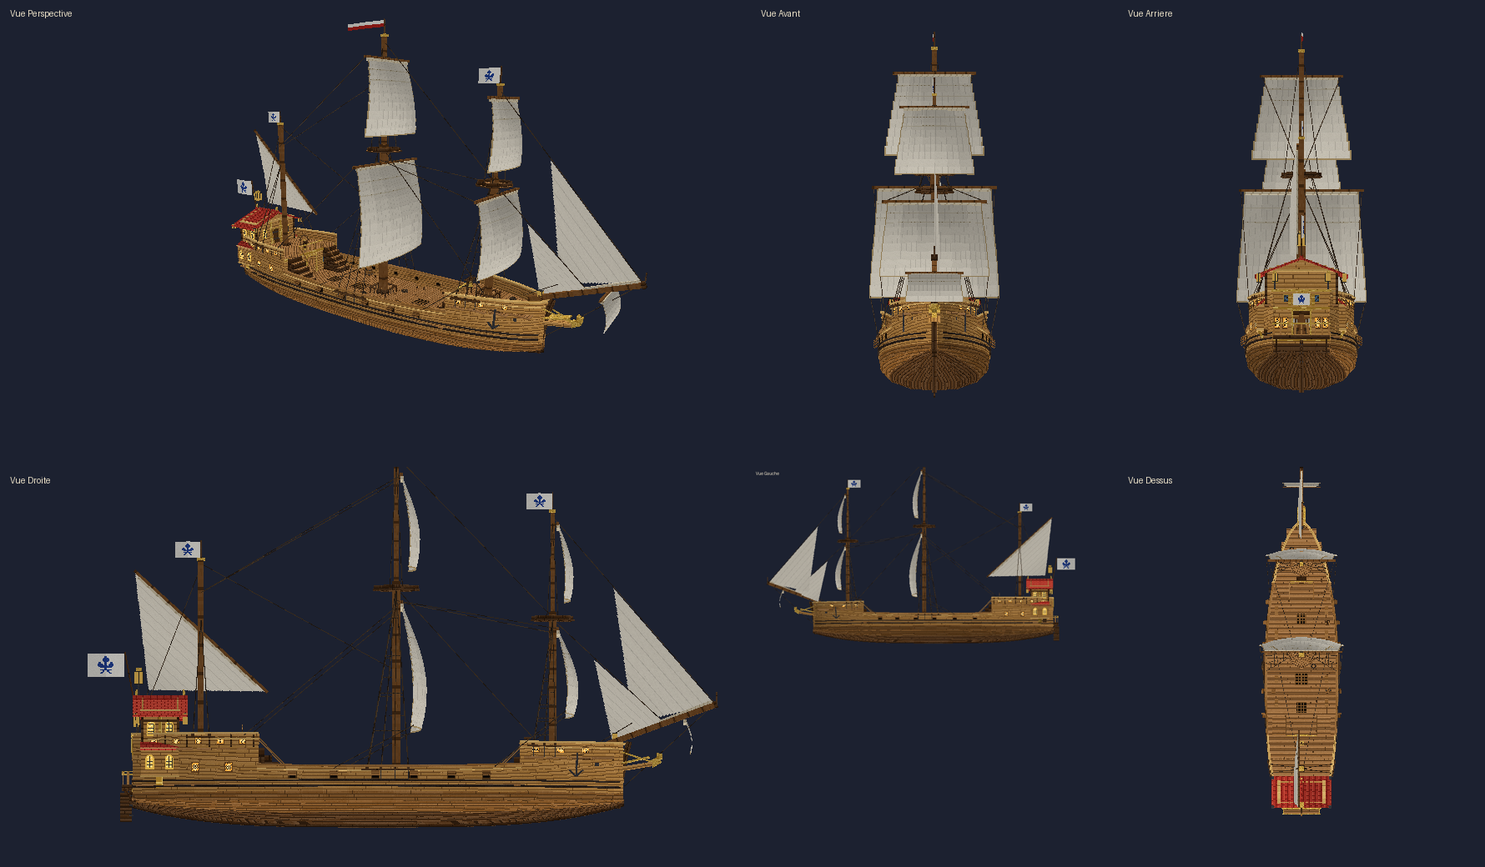
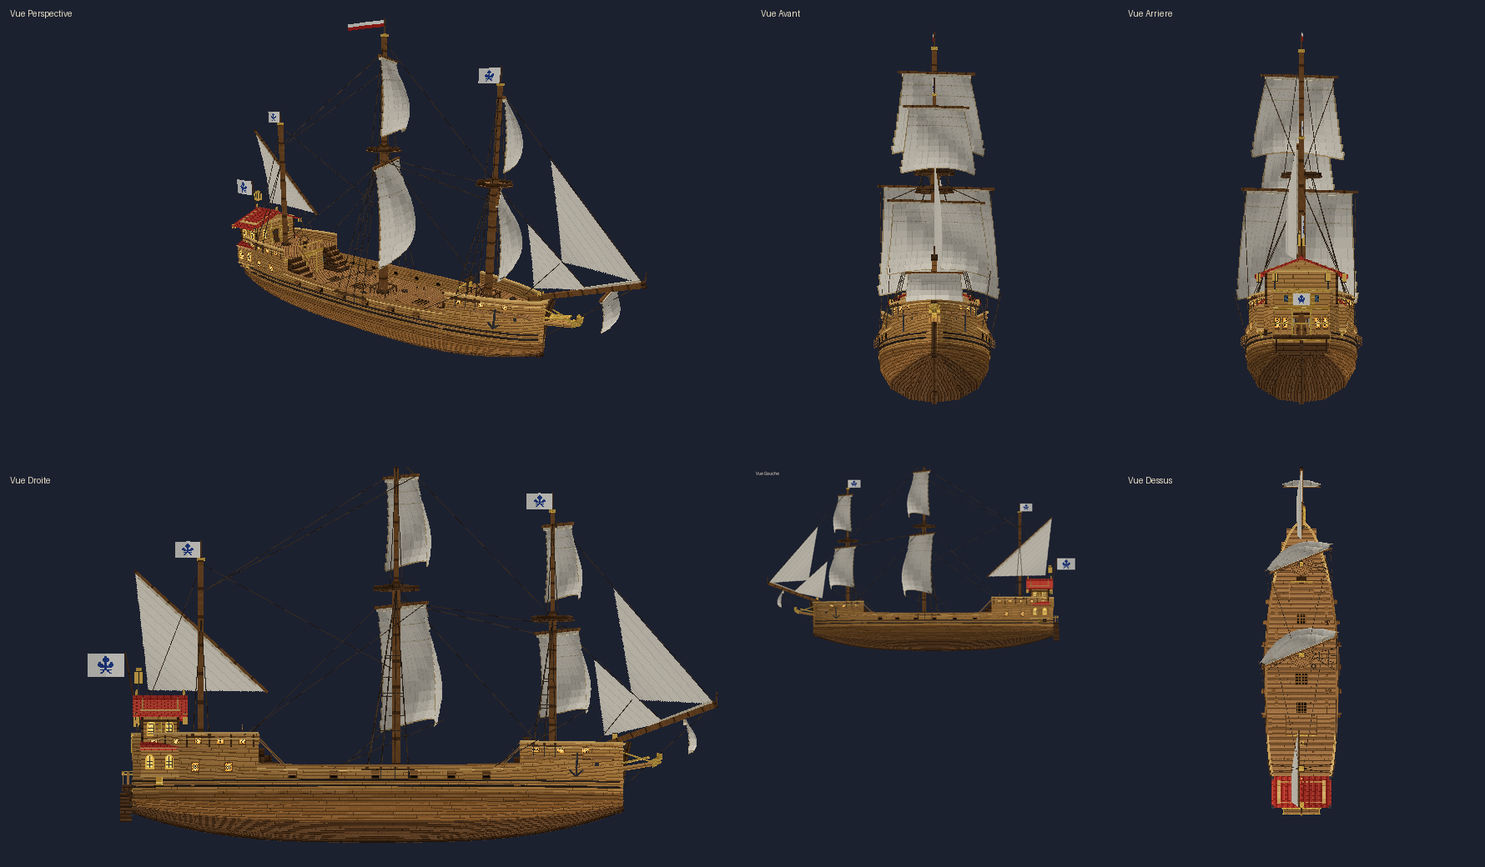
1.5.0: documentation, sample configuration and previews for the new ships
README (six ships, configuration of the new ones), commands (new ids and
the grand_warship alias), model guide for the three new ships and the sail
crossing check, architecture (waterline, parts outside the hull, steam
engine effects), test report (154 in-game checks, 73 unit tests).

Claude-Session: https://claude.ai/code/session_011hUzJAdSyRQ1iYUE1FjecD

diff --git a/README.md b/README.md
@@ -3,8 +3,9 @@
 ![Galère](docs/preview.png)
 ![Grand galion](docs/preview_galleon.png)
 ![Grand vaisseau de guerre](docs/preview_warship.png)
+![Galère rouge, bateau à roue à vapeur, voilier elfique](docs/comparaison_nouveaux_navires.png)
 
-Trois navires qui sont de **véritables entités navigables**, pas des constructions en blocs :
+Six navires qui sont de **véritables entités navigables**, pas des constructions en blocs :
 
 | | Galère médiévale | Grand galion | Grand vaisseau de guerre |
 |---|---|---|---|
@@ -15,7 +16,19 @@ Trois navires qui sont de **véritables entités navigables**, pas des construct
 | Maniement | vif : accélère vite, pivote presque sur place | lourd : lente accélération, forte inertie, larges virages | très lourd : ≈ 17 s pour prendre son allure, > 40 blocs d'erre, très larges virages |
 | Particularités | rames animées, tente de poupe | grande cabine et balcon accessibles, escaliers, dunette au toit rouge, sabords décoratifs, drapeaux à emblème | 3 ponts (pont principal, gaillard d'arrière, dunette) + gaillard d'avant, grande cabine accessible, 58 canons décoratifs (prêts pour le combat), haute poupe à trois étages de fenêtres et galeries, écume à la proue |
 
-Pour les trois :
+| | Galère médiévale rouge | Bateau à roue à vapeur | Voilier elfique |
+|---|---|---|---|
+| Objet / commande | *Galère médiévale rouge*, `medieval_galley` | *Bateau à roue à vapeur*, `steam_paddleboat` | *Voilier elfique*, `elven_sailboat` |
+| Taille | 28 blocs hors tout (coque de 26), 5 de large, coque de 3 blocs, 15 de haut | 22 blocs, 8 de large (10 avec la roue), coque de 5 blocs, 12 de haut | 30 blocs hors tout (coque de 24), 6 de large, coque de 4 blocs, 21 de haut |
+| Propulsion | 24 rames + grande voile carrée rayée rouge et blanc | machine à vapeur : une roue à aubes à tribord, deux cheminées | un grand mât, trois voiles triangulaires |
+| Places assises | 10 (barreur + 8 bancs de nage + proue) | 8 (barre, bancs le long du rouf, 2 servants de canon, poupe) | 8 (barre, 6 bancs à coussins, proue) |
+| Maniement | vive et maniable : accélère vite, vire court, les rames la font pivoter à l'arrêt | accélération progressive, très maniable à basse vitesse, bonne marche arrière, pas de voile à carguer | rapide et fluide : grande vitesse, longue erre, virages doux |
+| Particularités | coque en croissant, deux têtes de dragon sculptées, 28 boucliers ronds à croix blanche, drapeau rouge à croix blanche | coque blindée rivetée, proue renforcée à éperon, rouf aux fenêtres éclairées, roue qui tourne avec la vitesse (en arrière en marche arrière), fumée des cheminées, écume et gerbes à la roue, battement de la machine, 2 canons en laiton, rambarde à lanternes | coque turquoise et or, gemmes lumineuses, longue proue sculptée en volute avec sa lanterne, poupe recourbée, étoile à huit branches et croissant de lune brodés sur les voiles, lanternes qui se balancent |
+
+Le grand vaisseau de guerre s'appelle aussi `grand_warship` dans les commandes ; son
+identifiant interne reste `warship` (navires déjà posés, sauvegardes et configuration intacts).
+
+Pour tous :
 
 * objet dans l'inventaire créatif (onglet *Navires médiévaux* et *Outils*), clic droit sur
   l'eau pour le mettre à l'eau (vérification de la place disponible) ;
@@ -33,6 +46,10 @@ Pour les trois :
 * aucune dépendance autre que Fabric API (ni GeckoLib, ni Valkyrien Skies, ni Eureka),
   aucune apparition naturelle.
 
+La version 1.5.0 ajoute la galère rouge, le bateau à roue à vapeur et le voilier elfique, d'après
+l'image de référence ; le galion et le vaisseau de guerre flottent plus haut sur une coque plus
+profonde et plus arrondie, et leurs voiles sont orientées et plus gonflées. La galère d'origine
+n'a pas changé (géométrie vérifiée au millième de bloc).
 La version 1.3.0 ajoute le grand vaisseau de guerre sans rien changer aux deux premiers navires.
 La version 1.2.0 avait ajouté le grand galion **sans rien changer à la galère** : même modèle, mêmes
 textures, mêmes animations, mêmes réglages, mêmes commandes ; les galères déjà posées dans le
@@ -41,7 +58,7 @@ la galère est identique, au millième de bloc, à celle de la version 1.1.1).
 
 ## Installation
 
-Serveur **et** clients : `medieval-ships-1.4.2.jar` + [Fabric API](https://modrinth.com/mod/fabric-api)
+Serveur **et** clients : `medieval-ships-1.5.0.jar` + [Fabric API](https://modrinth.com/mod/fabric-api)
 0.141.6+1.21.11 (ou plus récent pour 1.21.11), Fabric Loader ≥ 0.18, Java 21.
 
 ## Compilation
@@ -70,7 +87,8 @@ pour 1.21.11 sur <https://fabricmc.net/develop>.
 `config/medievalships.json` (créé au premier lancement, rechargeable avec `/ship reload`) —
 la configuration par défaut se trouve dans [`config/medievalships.json`](config/medievalships.json).
 Elle a deux parties : `server` (réglages communs) et `ships` (un bloc par navire, `galley`,
-`galleon` et `warship`). Un ancien fichier (version 1.0/1.1, réglages « à plat ») est converti
+`galleon`, `warship`, `medieval_galley`, `steam_paddleboat` et `elven_sailboat` ; les blocs des
+nouveaux navires sont ajoutés automatiquement à un fichier existant). Un ancien fichier (version 1.0/1.1, réglages « à plat ») est converti
 automatiquement : ses valeurs deviennent celles de la galère.
 
 **`server`**
@@ -97,12 +115,30 @@ automatiquement : ses valeurs deviennent celles de la galère.
 | `aiDefaultWaitSeconds`, `aiStuckSeconds`, `aiTurnAroundSpeed` | 300, 6, 0.4 | 300, 10, 2 | 300, 15, 2.4 | attente par défaut, détection de blocage, vitesse en demi-tour |
 | `furlSailWhenStopped` | true | true | true | carguer les voiles à l'arrêt |
 
+**`ships.medieval_galley` / `ships.steam_paddleboat` / `ships.elven_sailboat`** (mêmes clés)
+
+| Clé | Galère rouge | Bateau à vapeur | Voilier elfique |
+|---|---|---|---|
+| `slowSpeed` / `normalSpeed` / `fastSpeed` | 2.8 / 6 / 9.5 | 2.2 / 5 / 7.5 | 3 / 6.8 / 10.5 |
+| `reverseSpeed` | 2.0 | 2.5 | 1.5 |
+| `acceleration`, `braking` | 1.1, 2.0 | 0.5, 1.4 | 0.8, 1.2 |
+| `waterDrag` | 0.2 | 0.12 | 0.1 |
+| `maxTurnRate`, `minTurnFactor` | 18, 0.35 | 13, 0.5 | 13, 0.15 |
+| `helmRate`, `helmReturnRate`, `turnResponse`, `turnSpeedLoss` | 1.8, 1, 1.8, 0.22 | 1.4, 1, 1.3, 0.15 | 1.2, 0.8, 1.1, 0.1 |
+| `waveRocking` | 1.0 | 0.8 | 0.9 |
+| `aiWaypointRadius`, `aiStopRadius`, `aiLookahead`, `aiProbeDistance` | 8, 2, 14, 40 | 9, 2, 16, 48 | 9, 2, 16, 48 |
+| `aiDefaultWaitSeconds`, `aiStuckSeconds`, `aiTurnAroundSpeed` | 300, 6, 0.4 | 300, 8, 1 | 300, 6, 1.2 |
+| `furlSailWhenStopped` | true | false (pas de voile) | true |
+
 ## Structure du projet
 
 ```
 blockbench/galley.bbmodel        galère éditable (texture intégrée, 6 animations)
 blockbench/galleon.bbmodel       grand galion éditable (2 textures intégrées, 4 animations)
 blockbench/warship.bbmodel       grand vaisseau de guerre éditable (2 textures intégrées, 4 animations)
+blockbench/medieval_galley.bbmodel   galère rouge éditable (texture intégrée, 5 animations)
+blockbench/steam_paddleboat.bbmodel  bateau à roue à vapeur éditable (texture intégrée, 3 animations)
+blockbench/elven_sailboat.bbmodel    voilier elfique éditable (texture intégrée, 5 animations)
 config/medievalships.json        configuration par défaut
 docs/                            documentation et aperçu
 src/main/java/.../core           navigation en Java pur (testée)

diff --git a/docs/MODELE.md b/docs/MODELE.md
@@ -219,3 +219,85 @@ sillage, proportionnels à la vitesse (quelques particules vanilla par tick, seu
 python3 tools/generate_warship.py
 python3 tools/preview.py blockbench/warship.bbmodel - docs/preview_warship.png --scale=2.7
 ```
+
+# Galère médiévale rouge (`medieval_galley`)
+
+D'après l'image de référence (« 3. Galère médiévale »).
+
+## Fichiers
+
+| Fichier | Rôle |
+|---|---|
+| `blockbench/medieval_galley.bbmodel` | Modèle éditable (texture intégrée). |
+| `src/main/resources/assets/medievalships/models/entity/medieval_galley.bbmodel` | Modèle chargé par le mod. |
+| `.../textures/entity/medieval_galley.png` | Texture 256 × 256. |
+| `tools/medieval_galley_shape.py` | Forme et plan, identiques au code Java (`Ships.medievalGalley()`, test `NewShipsTest`). |
+| `tools/generate_medieval_galley.py`, `tools/medieval_galley_texture.py` | Générateurs. |
+
+## Ce qui est modélisé
+
+| Élément de l'image | Réalisation |
+|---|---|
+| Coque très longue et étroite, extrémités très relevées | 20 tronçons × 2 bords × 8 bordages inclinés ; la tonture en croissant monte de 2,2 blocs aux deux bouts et les bordages la suivent |
+| Coque rouge et brun foncé, bordures bleues, décorations dorées | œuvres vives brun foncé, bordé rouge, préceinte sombre, liston bleu sous le plat-bord rouge, filets dorés entre les bordages |
+| Sculptures rouges aux extrémités | deux têtes de dragon en écailles rouges : cou épais qui monte de l'étrave et de l'étambot, crête dorsale, mâchoire ouverte, dents, langue, yeux d'or, cornes dorées, nageoires |
+| Boucliers ronds alignés | 14 boucliers par bord (rouges, croix blanche, cerclage doré, umbo), jointifs le long du plat-bord |
+| Nombreuses rames | 12 rames par bord, chacune un os animé, sortant sous les boucliers |
+| Grande voile rectangulaire rayée, mât central | voile carrée gonflée à 9 laizes verticales rouges et blanches (rouge aux bords), sur une vergue orientée, mât de 13 blocs |
+| Drapeau, cordages | drapeau rouge à croix blanche à deux segments animés ; étai, pataras, haubans, bras et écoutes |
+| Pont ouvert | pont, coursive centrale, 11 bancs de nage, tabouret et aviron de gouverne du barreur, tonneaux, coffre, glènes, 4 lanternes sur poteaux |
+
+Animations : `row` (24 rames), `sail_wind`, `sail_furl`, `steer` (aviron de gouverne), `flag_wave`.
+
+# Bateau à roue à vapeur (`steam_paddleboat`)
+
+D'après l'image de référence (« 2. Bateau à roue à vapeur »). Fichiers : `steam_paddleboat.*`,
+`tools/paddleboat_shape.py`, `tools/generate_paddleboat.py`, `tools/paddleboat_texture.py`.
+
+| Élément de l'image | Réalisation |
+|---|---|
+| Coque blindée, basse et massive, plaques gris foncé rivetées | bordé en plaques rivetées (texture), bandes rivetées, plaques plus sombres et rouillées près de l'eau, hublots éclairés à cerclage de laiton, double blindage aux épaules |
+| Proue renforcée | étrave en laiton et éperon en fer à la flottaison |
+| Rouf, fenêtres, ouvertures et trappes | rouf en panneaux de bois cerclés de laiton, fenêtres éclairées, portes en fer, manomètres, tuyau de cuivre ; passerelle sur le toit, sifflet ; panneaux de cale à caillebotis |
+| Deux cheminées | deux cheminées verticales en briques grises cerclées de fer, l'une derrière l'autre, sommet noirci et évasé, tuyaux de vapeur, haubans |
+| Grande roue à aubes latérale | **une seule roue, à tribord**, comme sur la vue de côté de l'image : rond parfait (2 jantes de 20 segments, 2 couronnes intérieures, 20 rayons), 10 aubes radiales, moyeu en laiton ; elle tourne autour de son axe ; axe fixe de la coque au palier extérieur, palier et entretoises ; tambour en arc (tôles + arc doré) qui la couvre ; elle ne touche pas la coque (0,2 bloc d'écart) et plonge d'environ 0,9 bloc dans l'eau |
+| Canons sur le pont | deux canons en laiton sur affût de bois à roues, sur plaques tournantes, à la proue (vers l'avant) et à la poupe (vers l'arrière) |
+| Rambardes métalliques, lanternes | rambarde en fer à main courante de laiton tout autour, 10 lanternes sur poteaux |
+| Éléments mécaniques | manches à air en laiton, télégraphe des machines, cabestan, ancres, mât de signaux et son pavillon (rouage doré sur fond rouge) |
+
+Animations : `paddle` (un tour de roue par boucle, jouée avec la **vitesse signée** : la roue
+tourne plus vite quand le bateau accélère et en arrière en marche arrière ; le générateur vérifie
+le sens de rotation), `steer` (roue de barre et gouvernail), `flag_wave`. Effets côté client,
+seulement près du joueur : fumée des cheminées (plus épaisse en marche), écume et gerbes à la
+roue, battement de la machine et crépitement du foyer (sons vanilla).
+
+# Voilier elfique (`elven_sailboat`)
+
+D'après l'image de référence (« 4. Voilier elfique »). Fichiers : `elven_sailboat.*`,
+`tools/elven_shape.py`, `tools/generate_elven.py`, `tools/elven_texture.py`.
+
+| Élément de l'image | Réalisation |
+|---|---|
+| Coque longue et fine, bleu turquoise et or | coque élancée (30 blocs hors tout, 6 de large), œuvres vives bleu nuit, flancs turquoise, bandeau de filigrane doré, filets et plat-bord dorés, léger rentré |
+| Ornements elfiques | gemmes turquoise lumineuses serties d'or le long des flancs ; nageoires dorées sur l'étrave |
+| Proue très élancée | longue proue en volute dorée qui s'avance de 3 blocs, grosse gemme de chaque côté, lanterne suspendue à son extrémité |
+| Poupe légèrement relevée | étambot recourbé en crosse dorée, lanterne suspendue |
+| Grand mât central, voiles triangulaires | grand mât à bagues dorées et pomme ; grand-voile sur bôme, foc vers la proue, petit hunier triangulaire ; toile crème à bordure bleue et filet d'or |
+| Symboles solaires et lunaires | **dans la texture** : étoile dorée à huit branches à cœur bleu et petites étoiles sur la grand-voile, croissant de lune doré et étoiles sur le foc, étoile sur le hunier |
+| Lanternes suspendues, cordages | 4 lanternes à potences dorées + celles de la proue et de la poupe, chacune sur son os ; étai, pataras, haubans, écoutes |
+| Pont ouvert | pont clair, bancs dorés à coussins bleus, coffre, barre à roue sur piédestal doré |
+
+Animations : `sail_wind`, `sail_furl`, `steer`, `flag_wave` (flamme), `lantern_sway` (les
+lanternes se balancent doucement, chacune avec sa phase).
+
+# Vérifications communes
+
+* `python3 tools/sail_check.py warship|galleon|elven|medieval_galley` : vérifie qu'**aucune voile
+  n'en traverse une autre** (chaque laize est une boîte orientée ; les parties transparentes des
+  voiles triangulaires sont ignorées). Les cinq croisements trouvés en 1.5.0 (misaine/focs et
+  foc/civadière sur le vaisseau et le galion, grand-voile/hunier du voilier) sont corrigés.
+* Galion et vaisseau de guerre (1.5.0) : ils flottent plus haut (eau à −1,5 et −1,1 bloc sous
+  l'origine du modèle) sur une coque plus profonde dont les fonds arrondis se voient au-dessus de
+  l'eau ; leurs vergues sont orientées de 22° et leurs voiles plus gonflées, la bordure inférieure
+  incurvée. Le vaisseau a désormais les pavillons rouges à croix blanche et les balustrades
+  rouges de la nouvelle image (`warship_flag.png` reste remplaçable par un pack de ressources).

diff --git a/docs/TESTS.md b/docs/TESTS.md
@@ -11,11 +11,32 @@ le `.jar` obtenu est celui qui vous est livré.
 La tâche *In-game test* lance un **vrai client Minecraft 1.21.11** avec le `.jar` de
 production (mod remappé, comme sur un vrai serveur), deux fois : **sans** et **avec Lithium**.
 Chaque fois, tout le scénario est joué **en solo** puis sur un **vrai serveur dédié** auquel le
-client se connecte par le réseau (contrôles de mouvement du serveur actifs) : 88 vérifications,
-toutes réussies.
+client se connecte par le réseau (contrôles de mouvement du serveur actifs) : **154 vérifications,
+toutes réussies** (version 1.5.0, avec et sans Lithium, en solo et sur serveur dédié).
 Le test (`src/gametest/.../ShipClientGameTest.java`) crée un monde, des bassins, met les navires
 à l'eau puis vérifie (résultats et captures publiés sur les branches `test-results-vanilla` et
 `test-results-lithium`) :
+
+### Nouveaux navires (galère rouge, bateau à roue à vapeur, voilier elfique) — 1.5.0
+
+Le même scénario pour chacun, dans un quatrième bassin (44 × 100 blocs) :
+
+* mise à l'eau par `/ship spawn <type>` ; **il flotte sur sa ligne de flottaison** (eau à
+  −58,11 pour une surface à −58) ;
+* **six captures comparables à l'image de référence** : côté droit, côté gauche, proue, poupe,
+  dessus, perspective (+ pont, navigation, pilote automatique) ;
+* chute sur le pont et sauts : le joueur reste sur le pont ;
+* **toutes les places occupées** (10, 8 et 8), un passager de plus est refusé ;
+* pilotage : il avance (galère rouge 8,7 blocs en 4 s ; bateau à vapeur 4,0 — accélération
+  progressive ; voilier 6,3) et vire (26,5° / 16,3° / 11,0° en 3 s), passagers toujours assis ;
+* descente du barreur sur le pont ;
+* **pilote automatique sur un itinéraire** de deux points : il rejoint le second point (31 → 1,2,
+  40 → 0,6 et 33,5 → 1,3 blocs) ;
+* `/ship give <type>` donne l'objet.
+
+Les captures sont dans les branches `test-results-*` (fichiers `*_medieval_galley_*`,
+`*_steam_paddleboat_*`, `*_elven_sailboat_*`). Dans les dernières vues, les voiles des navires à
+voiles sont carguées : le navire est arrêté depuis quelques secondes (`furlSailWhenStopped`).
 
 ### Filets de sécurité (collisions désactivées)
 
@@ -79,7 +100,7 @@ cabine, balcon, gaillard d'arrière, navigation.
 | collisions coupées : le joueur est quand même rattrapé par le pont principal et par la dunette | réussi |
 | `/ship give warship` donne l'objet *Grand vaisseau de guerre* | réussi |
 
-## Tests unitaires (55, tous réussis)
+## Tests unitaires (73, tous réussis)
 
 `./gradlew test` :
 
@@ -103,6 +124,9 @@ cabine, balcon, gaillard d'arrière, navigation.
 | `WarshipTest` (16 tests) | vaisseau : dimensions, forme identique au générateur, 24 sièges, ponts sans trou à tous les caps, murailles sans brèche, embarquement, escaliers, grande cabine, visée, 58 sabords, filets de sécurité, plus lourd que le galion, aller-retour de 600 blocs autour d'une île de 90 blocs, route à 4 virages |
 | `matchesPythonReference` (×3) | le lecteur `.bbmodel` du mod produit exactement la même géométrie que le rendu de référence (galère 2 208 faces ; galion 7 943 faces, 2 textures) |
 | `bonesAnimationsAndTextures`, `requiredBonesAndAnimationsExist`, `furlCollapsesTheSail` | os, animations et textures attendus par le mod |
+| `NewShipsTest` (18 tests) | galère rouge, bateau à vapeur, voilier elfique : formes identiques aux générateurs, dimensions demandées (28 × 5 × 3, 22 × 8 × 5, 30 × 6 × 4), places et points de descente libres, ponts sans trou à tous les caps, embarquement, visée de la barre et de la coque, flottaison ; **roue à aubes** : une seule, à tribord, hors de la coque, immergée d'environ 0,9 bloc, tambour solide, largeur prise en compte par le pilote automatique ; maniement (galère vive, vapeur progressive et maniable à basse vitesse, voilier rapide et fluide) ; identifiants et alias `grand_warship` |
+| `NewShipModelsTest` | les trois nouveaux modèles : os et animations attendus, géométrie identique au rendu de référence Python |
+| `tools/sail_check.py` (outil) | aucune voile n'en traverse une autre (vaisseau, galion, voilier, galère rouge) |
 
 Les modèles ont aussi été vérifiés visuellement (`docs/preview.png`, `docs/preview_galleon.png`,
 `docs/preview_galleon_details.png`) et leurs conventions comparées au code source de Blockbench.
@@ -120,7 +144,13 @@ Ce que les tests automatiques ne peuvent pas juger ou n'ont pas couvert :
 4. **Ferry en galion sur votre carte** : l'IA est validée en simulation et le galion navigue en
    jeu, mais vos ports réels (largeur des chenaux, quais) décideront des points de passage
    nécessaires (voir FERRY.md).
-5. **Sauvegarde / redémarrage** avec un galion en mer et des joueurs à bord ; anciennes galères
+5. **Sauvegarde / redémarrage** avec les nouveaux navires (galère rouge, bateau à vapeur, voilier
+   elfique) : ils utilisent la même sauvegarde que les autres, mais aucun test automatique ne
+   redémarre le serveur ; de même avec un galion en mer et des joueurs à bord ; anciennes galères
    déjà posées dans votre monde (elles gardent leur identifiant `medievalships:galley`).
+7. **Sons de la machine à vapeur, fumée, écume** : effets côté client vérifiés sur les captures
+   (fumée visible) ; le son n'est pas vérifiable automatiquement.
+8. **Roue à aubes en mouvement** : son sens de rotation est vérifié par le générateur et le
+   modèle, mais il faut la regarder tourner en jeu (en avant et en marche arrière).
 6. **Autres mods** de votre serveur qui modifient les collisions ou le rendu des entités (seul
    Lithium a été testé).

diff --git a/docs/ARCHITECTURE.md b/docs/ARCHITECTURE.md
@@ -36,7 +36,7 @@ solides comme les châteaux, la cabine ou le balcon, sabords) et ses réglages p
 Tout le reste est commun : `ShipEntity` (navigation, flottaison, passagers, transport sur le
 pont, pilote automatique, persistance), les collisions, les commandes, le rendu
 (`ShipRenderer` + un `ShipModels.Visual` par navire). Les sous-classes `GalleyEntity` et
-`GalleonEntity` ne font que dire quel type elles sont.
+`GalleonEntity` (et les autres) ne font que dire quel type elles sont.
 
 Ajouter un navire = un `ShipType` dans `Ships`, une sous-classe d'une ligne, un `registerShip`,
 un modèle Blockbench et une ligne dans `ShipModels`.
@@ -45,6 +45,25 @@ La galère n'a pas changé : ses valeurs sont reprises telles quelles dans `Ship
 identifiant d'entité (`medievalships:galley`) et d'objet aussi, ses sauvegardes se chargent
 sans conversion, et le test `galleyGeometryUnchanged` compare toute sa géométrie (sondes,
 sièges, boîtes de collision, visée, embarquement) à un instantané pris sur la version 1.1.1.
+
+### Ligne de flottaison, parties hors coque, machine à vapeur (1.5.0)
+
+* `HullShape.waterlineY` : hauteur de l'eau dans le repère du navire (0 pour la galère, inchangé).
+  Flottaison, mise à l'eau, déblocage (`unstuck`), navigabilité, sondes de terrain et écume
+  l'utilisent : le galion, le vaisseau, la galère rouge, le bateau à vapeur et le voilier
+  flottent plus haut sans rien changer à leurs ponts ni à leurs collisions.
+* `ShipGeometry.Spec.extraProbes` et `aiHalfWidth` : sondes de terrain et largeur vue par le
+  pilote automatique pour ce qui dépasse de la coque (le tambour de la roue à aubes, à 6 blocs
+  de l'axe) ; le tambour est aussi un volume solide pour les joueurs et les nageurs.
+* La roue à aubes a sa propre phase (`ShipEntity.wheelPhase`), qui avance avec la **vitesse
+  signée** (synchronisée) : elle tourne en arrière en marche arrière ; l'animation `paddle` est
+  jouée avec cette phase.
+* `ShipModels.Engine` (fumée des cheminées, écume de la roue, battement de la machine) :
+  effets uniquement côté client, à moins de 80 blocs (sons à moins de 48), une à quelques
+  particules vanilla par tick, aucun coût serveur ni réseau.
+* `lantern_sway` : balancement des lanternes suspendues du voilier elfique.
+* Commandes : `Ships.ALIASES` (`grand_warship` → `warship`) ; les identifiants des entités et
+  des sauvegardes ne changent jamais.
 
 ### Préparé pour les canons
 

diff --git a/docs/COMMANDES.md b/docs/COMMANDES.md
@@ -28,6 +28,13 @@ utilisable avec `/execute positioned ... run ship ...`).
 | `/ship give warship [joueurs]` | Donne l'objet *Grand vaisseau de guerre*. |
 | `/ship spawn warship` | Met un grand vaisseau de guerre à l'eau à votre position, proue dans votre direction. Il faut environ 60 × 15 blocs d'eau libre (2 blocs de profondeur minimum, 3 conseillés). |
 | `/ship spawn galleon` | Met un grand galion à l'eau à votre position, proue dans votre direction. Il faut environ 40 × 10 blocs d'eau libre (2 blocs de profondeur minimum, 3 conseillés) et rien au-dessus. |
+| `/ship give medieval_galley [joueurs]` | Donne l'objet *Galère médiévale rouge*. |
+| `/ship spawn medieval_galley` | Met une galère rouge à l'eau à votre position (environ 32 × 12 blocs d'eau libre, 2 de profondeur). |
+| `/ship give steam_paddleboat [joueurs]` | Donne l'objet *Bateau à roue à vapeur*. |
+| `/ship spawn steam_paddleboat` | Met un bateau à roue à vapeur à l'eau (environ 26 × 14 blocs d'eau libre, la roue est à tribord ; 2 de profondeur). |
+| `/ship give elven_sailboat [joueurs]` | Donne l'objet *Voilier elfique*. |
+| `/ship spawn elven_sailboat` | Met un voilier elfique à l'eau (environ 34 × 12 blocs d'eau libre, 2 de profondeur). |
+| `/ship give grand_warship`, `/ship spawn grand_warship` | Autre nom du grand vaisseau de guerre (`warship`, identifiant inchangé). |
 | `/ship remove` | Supprime le navire ciblé (les passagers sont débarqués sur place). |
 | `/ship list` | Liste les navires chargés, et les navires automatiques connus mais non chargés. |
 | `/ship info` | Vitesse, cap, barre, allure, pilote automatique, itinéraire, passagers. |
